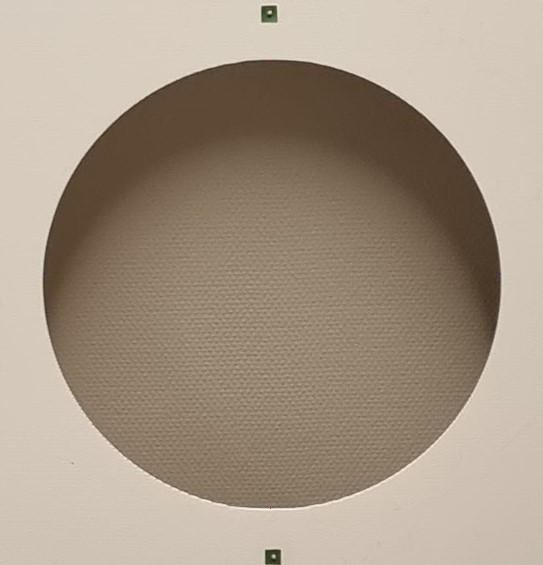
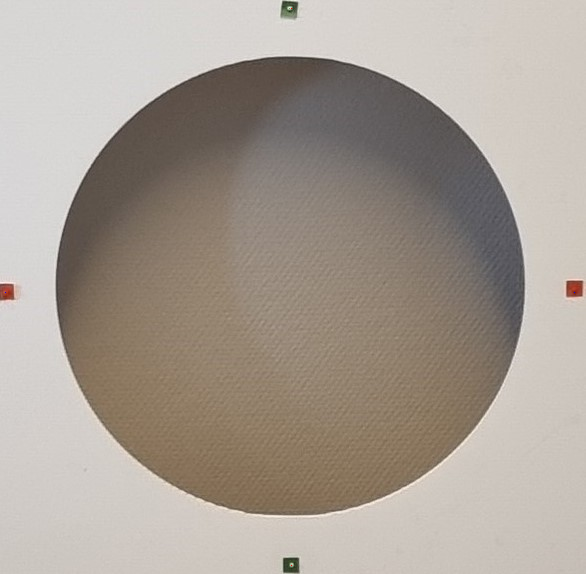
Added modifications to axis length begge2

diff --git a/Program/samuel_filer/begge2.py b/Program/samuel_filer/begge2.py
@@ -3,16 +3,18 @@ import cv2 as cv
 from matplotlib import pyplot as plt
 from PIL import Image
 
-path= "C:/Users/Samue/Desktop/BachelorGit/WebBachelor/Program/samuel_filer/samuel_bilder/A.jpg"
+path= "C:/Users/Samue/Desktop/BachelorGit/WebBachelor/Program/samuel_filer/samuel_bilder/ABCop.jpg"
 savePath="C:/Users/Samue/Desktop/BachelorGit/WebBachelor/Program/samuel_filer/samuel_bilder/ll.png"
 
 img = cv.imread(path)
 #############################################################
+
 #This part is not needed when Jehad part is finished
-img[60,270]=(0,0,255) #Vertikale rød 
-img[508,270]=(0,0,255) #Vertikale rød
-img[273,43]=(255,0,0)  #Horizontal blå markeringer
-img[273,500]=(255,0,0)  #Horizontal blå markeringer
+img[8,291]=(0,0,255) #Vertikale rød 
+img[565,291]=(0,0,255) #Vertikale rød
+img[292,5]=(255,0,0)  #Horizontal blå markeringer
+img[292,574]=(255,0,0)  #Horizontal blå markeringer
+
 #############################################################
 columnPixels = (img.shape[0])   # Bredden i bildet i piksler
 widthPixels =(img.shape[1])     #Høyden i bilde i  piksler
@@ -22,21 +24,21 @@ widthPixels =(img.shape[1])     #Høyden i bilde i  piksler
 VerticalAxisLengthColor = (255,0,0) #BGR -> BLUE    
 HorisontalAxisLengtColor = (0,255,0) #BGR -> GREEN
 #############################################################
-'''
-Activate this part only to mark hits
+
+#Activate this part only to mark hits
 # Red color in BGR
 colorCircle = (0,0,255)
 radius = 2
 
 Circlethickness=1
-'''
+
 window_name = "Demonstration Window"
 
 verticalAxisPoint = []
 horisontalAxisPoint = []
 #Two colors to look for 
 VerticalSearchColor = (0, 0, 255 ) #RED COLOR IN BGR(Blue,Green,Red)
-HorisontalSearchColor = (255,0,0) #Blue COLOR 
+HorisontalSearchColor = (255 , 0, 0) #Blue COLOR 
 vertAxisPixel = 0
 horiAxisPixel = 0
 
@@ -45,11 +47,14 @@ for y in range(columnPixels):
         if (img[y,x,0] == VerticalSearchColor[0]  and img[y,x,1] == VerticalSearchColor[1] and img[y,x,2] == VerticalSearchColor[2]):
             verticalAxisPoint.insert(vertAxisPixel,[x,y])
             vertAxisPixel += 1
+            #img = cv.circle(img, (x,y), 20 , (255,0,0), 2)
+            print(verticalAxisPoint,"ver")
             
         if (img[y,x,0] == HorisontalSearchColor[0]  and img[y,x,1] == HorisontalSearchColor[1] and img[y,x,2] == HorisontalSearchColor[2]):
             horisontalAxisPoint.insert(horiAxisPixel,[x,y])
             horiAxisPixel +=1
-            
+            #img = cv.circle(img, (x,y), 20 , (0,255,0), 2)
+            print(horisontalAxisPoint,"hori")
 cv.imwrite(savePath,img)
 
 shootingTargetCenterYCoord = int((verticalAxisPoint[-1][1]-verticalAxisPoint[0][1])/2 + verticalAxisPoint[0][1])
@@ -57,19 +62,18 @@ shootingTargetCenterYCoord = int((verticalAxisPoint[-1][1]-verticalAxisPoint[0][
 cmLen=0
 cmLenHorizontal = 0
 
-pixel= 40/(verticalAxisPoint[-1][1]-verticalAxisPoint[0][1]) #Piksel høyde i cm
+pixel= 48.320/(verticalAxisPoint[-1][1]-verticalAxisPoint[0][1]) #Piksel høyde i cm
 
-pixelHorisontal= 40 / (horisontalAxisPoint[-1][0]-horisontalAxisPoint[0][0]) #Piksel bredde i cm
-
+pixelHorisontal= 48.20 / (horisontalAxisPoint[-1][0]-horisontalAxisPoint[0][0]) #Piksel bredde i cm
+print(pixelHorisontal,"PIXELS")
 
 end = verticalAxisPoint[-1][1]
 end1 = horisontalAxisPoint[-1][0]
 
-
 for x in range(verticalAxisPoint[0][1], end,1):
     cmLen =cmLen + pixel
     img[x,verticalAxisPoint[0][0]]=VerticalAxisLengthColor
-    
+
 for x in range(horisontalAxisPoint[0][0], end1,1):
     cmLenHorizontal=cmLenHorizontal + pixelHorisontal
     img[horisontalAxisPoint[0][1],x]=HorisontalAxisLengtColor
